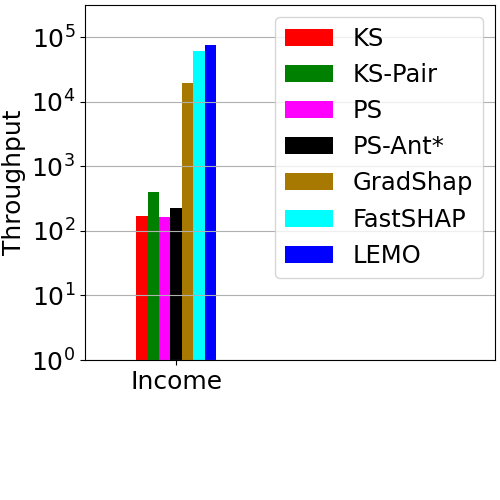
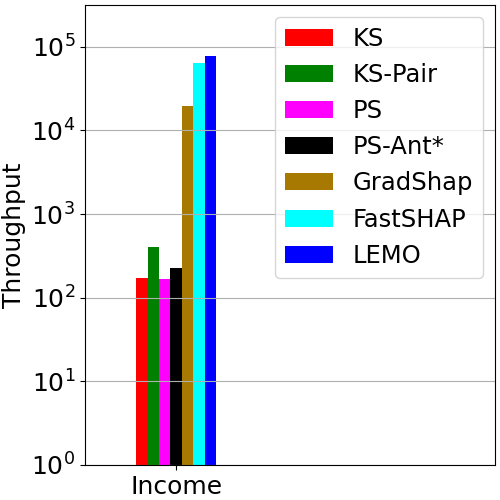
update repo

diff --git a/throughput_plot.py b/throughput_plot.py
@@ -99,7 +99,7 @@ plt.xticks(bar_x_axis - 3*bar_width, dataset_short_buf, fontsize=18)
 for leg_line in h_leg.get_lines():
     leg_line.set_linewidth(6)
 plt.xlim([-4*bar_width, bar_width*32])
-plt.subplots_adjust(left=0.17, bottom=0.28, top=0.99, right=0.99, wspace=0.01)
+plt.subplots_adjust(left=0.17, bottom=0.07, top=0.99, right=0.99, wspace=0.01)
 plt.savefig("figure/Throughput-adult.png")
 # plt.show()
 plt.close()

diff --git a/README.md b/README.md
@@ -1,1 +1,35 @@
-# LEMO
+## LETA: Learning Transferable Attribution for Generic Vision Explainer
+
+### Research Motivation
+
+Shapley value's exponentially growing complexity hinders its use in real-world scenarios.
+Although existing works introduce DNN-explainers to efficiently estimate Shapley values, the training relies on noisy proxy labels that badly affect the performance of trained explainers. 
+It is challenging to alleviate the harm of the noise caused by proxy labels, due to its heterogeneity across different instances and features.
+To solve this problem, we conduct an in-depth analysis on the proxy label, and verify that it satisfies the Gaussian distribution centered on the Shapley value, termed as **Shapley Manifold** in this work.
+Building upon this insight, we propose Learning Shapley Manifold (LEMO) towards minimizing the Kullback-Leibler divergence aligned with the Shapley manifold for each instance and feature. 
+In this way, it alleviates~the harm of heterogeneous noise by adaptively assembling the contribution of each proxy label by the noise power, where **low noise power of proxy label, high importance to the training**.
+
+
+### Dependency
+````angular2html
+torch 
+numpy
+matplotlib
+seaborn
+````
+
+### Leverage our Pre-trained Explainer
+
+Run our pre-trained explainer to reproduce our experiment results
+````angular2html
+python3 l2_plot.py
+python3 throughput_plot.py
+````
+
+The heatmap of local explanation will be
+<div align=center>
+<img width="180" height="150" src="https://anonymous.4open.science/r/LEMO-3604/figure/L2_vs_n_sample_adult.png">
+<img width="120" height="150" src="https://anonymous.4open.science/r/LEMO-3604/figure/Throughput-adult.png">
+</div>
+
+
